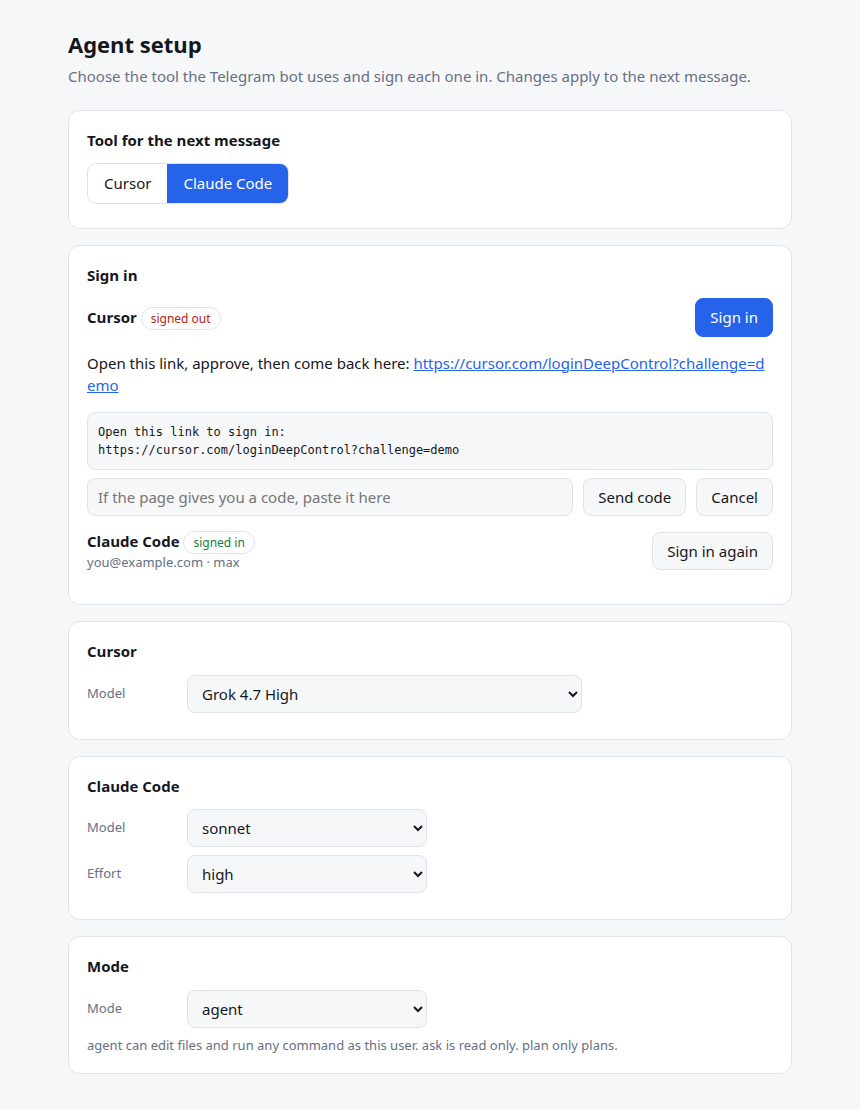
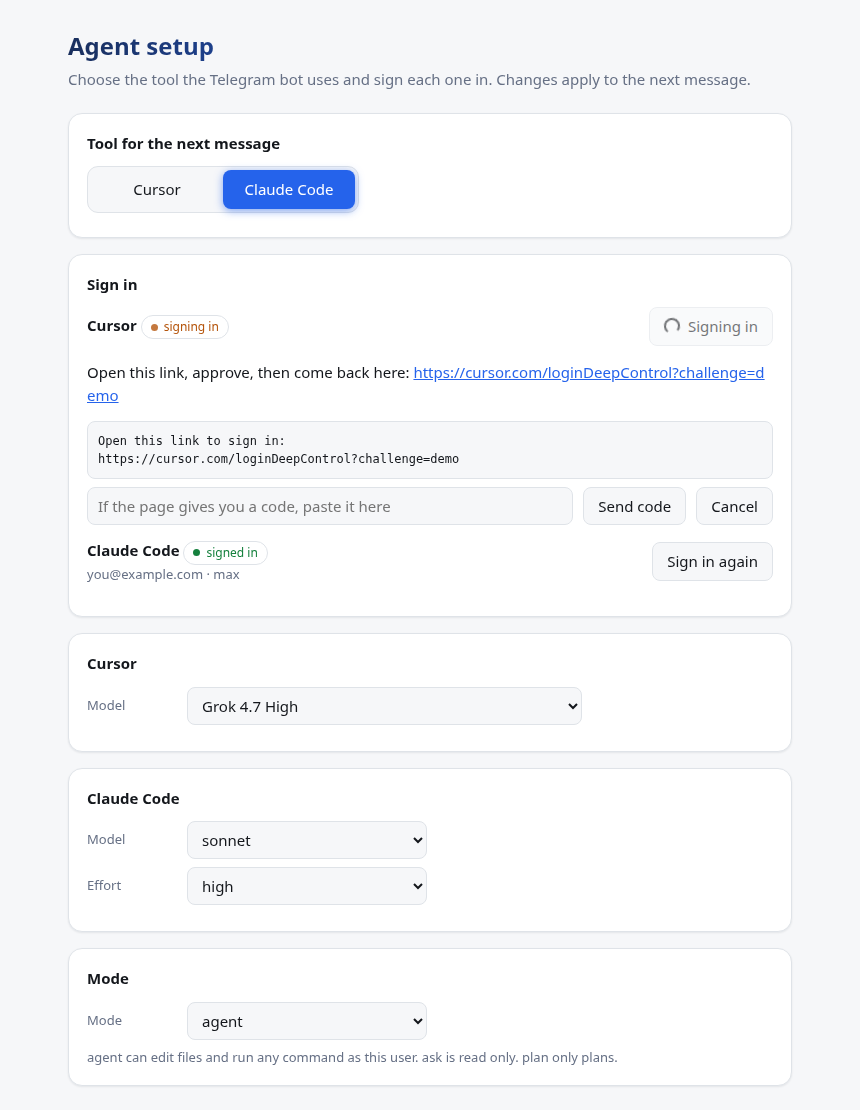
Animate the setup page and the README pictures.
The setup page gets staggered card entrances, a sliding tool toggle, a
spinner and amber pulse while a sign-in runs, a breathing dot when signed
in, a flash on a saved field, and a toast that slides up. Sign-in cards
now re-render only when their state changes, so the animations do not
restart on every poll. Reduced-motion turns all of it off.

The README gains a chat demo where one reply edits itself as the agent
works, message dots travelling through the architecture diagram, and a
model picker that taps a family and then a model. All three are plain
SVG, so GitHub plays them with no GIF.

diff --git a/app/webui.py b/app/webui.py
@@ -331,83 +331,114 @@ PAGE = """<!doctype html>
 <html lang="en"><head><meta charset="utf-8"><meta name="viewport" content="width=device-width,initial-scale=1">
 <title>Agent setup</title>
 <style>
-:root{color-scheme:light dark;--bg:#f6f7f9;--card:#fff;--ink:#14171c;--mute:#667085;--line:#dfe3e8;--accent:#2563eb;--ok:#15803d;--bad:#b42318}
-@media(prefers-color-scheme:dark){:root{--bg:#0f1115;--card:#171a21;--ink:#e8eaed;--mute:#98a2b3;--line:#272c36;--accent:#6d9bff;--ok:#4ade80;--bad:#f87171}}
+:root{color-scheme:light dark;--bg:#f6f7f9;--card:#fff;--ink:#14171c;--mute:#667085;--line:#dfe3e8;--accent:#2563eb;--ok:#15803d;--bad:#b42318;--wait:#b45309;--glow:rgba(37,99,235,.55);--okglow:rgba(21,128,61,.45);--shadow:rgba(16,24,40,.08)}
+@media(prefers-color-scheme:dark){:root{--bg:#0f1115;--card:#171a21;--ink:#e8eaed;--mute:#98a2b3;--line:#272c36;--accent:#6d9bff;--ok:#4ade80;--bad:#f87171;--wait:#fbbf24;--glow:rgba(109,155,255,.55);--okglow:rgba(74,222,128,.45);--shadow:rgba(0,0,0,.4)}}
+@keyframes rise{from{opacity:0;transform:translateY(14px)}to{opacity:1;transform:none}}
+@keyframes pop{from{opacity:0;transform:scale(.97)}to{opacity:1;transform:none}}
+@keyframes breathe{0%{box-shadow:0 0 0 0 var(--okglow)}70%,100%{box-shadow:0 0 0 7px transparent}}
+@keyframes spin{to{transform:rotate(360deg)}}
+@keyframes flash{from{box-shadow:0 0 0 0 var(--glow)}to{box-shadow:0 0 0 12px transparent}}
+@keyframes shimmer{to{background-position:200% center}}
+@keyframes blink{0%,80%,100%{opacity:.15}40%{opacity:1}}
+@keyframes waitpulse{50%{opacity:.45}}
 *{box-sizing:border-box}body{margin:0;background:var(--bg);color:var(--ink);font:15px/1.5 system-ui,sans-serif}
-main{max-width:760px;margin:0 auto;padding:28px 18px 60px}h1{font-size:22px;margin:0 0 4px}.sub{color:var(--mute);margin:0 0 22px}
-.card{background:var(--card);border:1px solid var(--line);border-radius:12px;padding:18px;margin-bottom:16px}
+main{max-width:760px;margin:0 auto;padding:28px 18px 60px}
+h1{font-size:24px;margin:0 0 4px;background:linear-gradient(90deg,var(--ink) 0%,var(--accent) 45%,var(--ink) 90%);background-size:200% auto;-webkit-background-clip:text;background-clip:text;color:transparent;animation:rise .5s both,shimmer 7s linear 1s infinite}
+.sub{color:var(--mute);margin:0 0 22px;animation:rise .5s .08s both}
+.card{background:var(--card);border:1px solid var(--line);border-radius:14px;padding:18px;margin-bottom:16px;box-shadow:0 1px 2px var(--shadow);animation:rise .55s cubic-bezier(.2,.7,.2,1) both;animation-delay:calc(120ms + var(--i) * 75ms);transition:box-shadow .25s,transform .25s}
+.card:hover{box-shadow:0 8px 24px var(--shadow)}
 h2{font-size:15px;margin:0 0 12px}.row{display:flex;gap:10px;align-items:center;flex-wrap:wrap;margin:8px 0}
-.seg{display:inline-flex;border:1px solid var(--line);border-radius:9px;overflow:hidden}
-.seg button{border:0;background:none;color:var(--ink);padding:8px 16px;cursor:pointer;font:inherit}
-.seg button.on{background:var(--accent);color:#fff}
-label{color:var(--mute);min-width:90px;font-size:13px}select,input{font:inherit;color:var(--ink);background:var(--bg);border:1px solid var(--line);border-radius:8px;padding:7px 10px}
-select{min-width:240px}input.code{flex:1;min-width:200px}
-button.act{font:inherit;border:1px solid var(--line);background:var(--bg);color:var(--ink);border-radius:8px;padding:7px 14px;cursor:pointer}
+.seg{position:relative;display:inline-flex;border:1px solid var(--line);border-radius:11px;padding:3px;background:var(--bg)}
+.seg::before{content:"";position:absolute;top:3px;bottom:3px;left:3px;width:calc(50% - 3px);border-radius:8px;background:var(--accent);box-shadow:0 2px 8px var(--glow);transition:transform .38s cubic-bezier(.2,.7,.2,1)}
+.seg[data-on=claude]::before{transform:translateX(100%)}
+.seg button{position:relative;z-index:1;width:132px;border:0;background:none;color:var(--ink);padding:8px 0;cursor:pointer;font:inherit;font-weight:500;transition:color .25s}
+.seg button.on{color:#fff}
+label{color:var(--mute);min-width:90px;font-size:13px}select,input{font:inherit;color:var(--ink);background:var(--bg);border:1px solid var(--line);border-radius:8px;padding:7px 10px;transition:border-color .2s,box-shadow .2s}
+select:focus,input:focus{outline:0;border-color:var(--accent);box-shadow:0 0 0 3px var(--glow)}
+select{min-width:240px}input.code{flex:1;min-width:200px}.flash{animation:flash .7s ease-out}
+button.act{font:inherit;border:1px solid var(--line);background:var(--bg);color:var(--ink);border-radius:8px;padding:7px 14px;cursor:pointer;transition:transform .12s,box-shadow .2s,opacity .2s}
+button.act:hover:not(:disabled){transform:translateY(-1px);box-shadow:0 4px 12px var(--shadow)}button.act:active:not(:disabled){transform:scale(.97)}button.act:disabled{opacity:.6;cursor:default}
 button.pri{background:var(--accent);border-color:var(--accent);color:#fff}
-.pill{font-size:12px;padding:2px 9px;border-radius:99px;border:1px solid var(--line)}.ok{color:var(--ok)}.bad{color:var(--bad)}
+button.busy::before{content:"";display:inline-block;width:12px;height:12px;border:2px solid currentColor;border-right-color:transparent;border-radius:50%;margin-right:8px;vertical-align:-2px;animation:spin .8s linear infinite}
+.pill{font-size:12px;padding:2px 9px;border-radius:99px;border:1px solid var(--line);display:inline-flex;align-items:center;gap:6px}
+.pill::before{content:"";width:7px;height:7px;border-radius:50%;background:currentColor}
+.ok{color:var(--ok)}.bad{color:var(--bad)}.pill.ok::before{animation:breathe 2.4s ease-out infinite}
+.pill.wait{color:var(--wait)}.pill.wait::before{animation:waitpulse 1s ease-in-out infinite}
 .tool{display:flex;justify-content:space-between;align-items:center;gap:12px;flex-wrap:wrap}.who{color:var(--mute);font-size:13px}
+.toolcard{margin-bottom:14px}.toolcard.enter{animation:rise .45s both}.step{animation:pop .4s both}
 pre{background:var(--bg);border:1px solid var(--line);border-radius:8px;padding:10px;white-space:pre-wrap;word-break:break-all;max-height:160px;overflow:auto;font-size:12px;margin:8px 0}
-.warn{color:var(--mute);font-size:13px;margin:6px 0 0}#toast{position:fixed;bottom:16px;left:50%;transform:translateX(-50%);background:var(--ink);color:var(--bg);padding:8px 16px;border-radius:9px;opacity:0;transition:.2s;pointer-events:none}
-#toast.show{opacity:1}a{color:var(--accent);word-break:break-all}
+.warn{color:var(--mute);font-size:13px;margin:6px 0 0}.d i{display:inline-block;width:4px;height:4px;margin-left:3px;border-radius:50%;background:currentColor;animation:blink 1.4s infinite}.d i:nth-child(2){animation-delay:.2s}.d i:nth-child(3){animation-delay:.4s}
+#toast{position:fixed;bottom:16px;left:50%;transform:translate(-50%,14px);background:var(--ink);color:var(--bg);padding:9px 18px;border-radius:10px;opacity:0;transition:.28s cubic-bezier(.2,.7,.2,1);pointer-events:none;box-shadow:0 8px 24px var(--shadow)}
+#toast.show{opacity:1;transform:translate(-50%,0)}a{color:var(--accent);word-break:break-all}
+@media(prefers-reduced-motion:reduce){*,*::before,*::after{animation:none!important;transition:none!important}}
 </style></head><body><main>
 <h1>Agent setup</h1><p class="sub">Choose the tool the Telegram bot uses and sign each one in. Changes apply to the next message.</p>
-<div class="card"><h2>Tool for the next message</h2>
+<div class="card" style="--i:0"><h2>Tool for the next message</h2>
 <div class="seg" id="cli"><button data-v="cursor">Cursor</button><button data-v="claude">Claude Code</button></div>
 <p class="warn" id="busy"></p></div>
-<div class="card"><h2>Sign in</h2><div id="tools"></div></div>
-<div class="card"><h2>Cursor</h2>
+<div class="card" style="--i:1"><h2>Sign in</h2><div id="tools"></div></div>
+<div class="card" style="--i:2"><h2>Cursor</h2>
 <div class="row"><label for="model">Model</label><select id="model"></select></div></div>
-<div class="card"><h2>Claude Code</h2>
+<div class="card" style="--i:3"><h2>Claude Code</h2>
 <div class="row"><label for="claude_model">Model</label><select id="claude_model"></select></div>
 <div class="row"><label for="effort">Effort</label><select id="effort"></select></div></div>
-<div class="card"><h2>Mode</h2>
+<div class="card" style="--i:4"><h2>Mode</h2>
 <div class="row"><label for="mode">Mode</label><select id="mode"></select></div>
 <p class="warn">agent can edit files and run any command as this user. ask is read only. plan only plans.</p></div>
 <div id="toast"></div></main>
 <script>
 const $=id=>document.getElementById(id);
 const H={"Content-Type":"application/json","X-Requested-With":"setup"};
-let state=null,busy=false,editing=false;
-function toast(t){const e=$("toast");e.textContent=t;e.classList.add("show");setTimeout(()=>e.classList.remove("show"),2200)}
+let state=null,editing=false;const sigs={};
+function toast(t){const e=$("toast");e.textContent=t;e.classList.add("show");clearTimeout(e._t);e._t=setTimeout(()=>e.classList.remove("show"),2200)}
+function flash(el){el.classList.remove("flash");void el.offsetWidth;el.classList.add("flash")}
 async function post(p,b){const r=await fetch(p,{method:"POST",headers:H,body:JSON.stringify(b||{})});const j=await r.json();if(!r.ok)throw new Error(j.error||r.status);return j}
 function fill(sel,items,val){const s=$(sel);if(editing&&document.activeElement===s)return;
  const want=items.map(i=>i.id+"|"+i.label).join(",");if(s.dataset.k!==want){s.innerHTML="";for(const i of items){const o=document.createElement("option");o.value=i.id;o.textContent=i.label;s.appendChild(o)}s.dataset.k=want}
  if(![...s.options].some(o=>o.value===val)){const o=document.createElement("option");o.value=val;o.textContent=val;s.appendChild(o)}
  s.value=val}
 function simple(a){return a.map(x=>({id:x,label:x}))}
+function toolCard(t,st,lg){
+ const d=document.createElement("div");d.className="toolcard";
+ const top=document.createElement("div");top.className="tool";
+ const name=document.createElement("div");name.innerHTML="<b></b> <span class='pill'></span><div class='who'></div>";
+ name.querySelector("b").textContent=t==="cursor"?"Cursor":"Claude Code";
+ const pill=name.querySelector(".pill");const running=!!(lg&&lg.running);
+ pill.textContent=running?"signing in":!st.installed?"not installed":st.signed_in?"signed in":"signed out";
+ pill.className="pill "+(running?"wait":st.signed_in?"ok":"bad");
+ name.querySelector(".who").textContent=[st.account,st.detail].filter(Boolean).join(" · ");
+ const btn=document.createElement("button");btn.className="act"+(st.signed_in||running?"":" pri")+(running?" busy":"");
+ btn.textContent=running?"Signing in":st.signed_in?"Sign in again":"Sign in";
+ btn.disabled=!st.installed||running;btn.onclick=async()=>{btn.disabled=true;btn.classList.add("busy");try{await post("/api/login",{tool:t});load()}catch(e){toast(e.message);load()}};
+ top.append(name,btn);d.appendChild(top);
+ if(lg&&(lg.running||lg.output)){
+  if(lg.url){const p=document.createElement("p");p.className="step";p.append("Open this link, approve, then ");const a=document.createElement("a");a.href=lg.url;a.target="_blank";a.rel="noopener noreferrer";a.textContent=lg.url;p.append(lg.running?"come back here: ":"(done): ",a);d.appendChild(p)}
+  const pre=document.createElement("pre");pre.textContent=lg.output||"Starting…";d.appendChild(pre);
+  if(lg.running){const r=document.createElement("div");r.className="row";const i=document.createElement("input");i.className="code";i.placeholder="If the page gives you a code, paste it here";
+   const send=document.createElement("button");send.className="act";send.textContent="Send code";send.onclick=async()=>{try{await post("/api/login/code",{tool:t,code:i.value});i.value="";toast("Code sent")}catch(e){toast(e.message)}};
+   const c=document.createElement("button");c.className="act";c.textContent="Cancel";c.onclick=()=>post("/api/login/cancel",{tool:t}).then(load);
+   r.append(i,send,c);d.appendChild(r)}
+  else{const m=document.createElement("p");m.className="warn step "+(lg.ok?"ok":"bad");m.textContent=lg.ok?"Signed in.":"Sign-in did not finish. Try again.";d.appendChild(m)}}
+ return d}
 function render(){const s=state;
- for(const b of $("cli").children)b.classList.toggle("on",b.dataset.v===s.cli);
- $("busy").textContent=s.busy?"A run is in progress. It finishes on the tool it started with.":"";
+ $("cli").dataset.on=s.cli;for(const b of $("cli").children)b.classList.toggle("on",b.dataset.v===s.cli);
+ const busy=$("busy");if(s.busy&&!busy.firstChild){busy.append("A run is in progress. It finishes on the tool it started with");const d=document.createElement("span");d.className="d";d.innerHTML="<i></i><i></i><i></i>";busy.appendChild(d)}else if(!s.busy)busy.textContent="";
  fill("claude_model",simple(s.claude_models),s.settings.claude_model);
  fill("effort",simple(s.efforts),s.settings.effort);
  fill("mode",simple(s.modes),s.settings.mode);
  if(!$("model").dataset.k)fill("model",[{id:"auto",label:"auto"}],s.settings.model);else if($("model").value!==s.settings.model&&document.activeElement!==$("model"))$("model").value=s.settings.model;
- const box=$("tools");if(box.contains(document.activeElement)&&document.activeElement.tagName==="INPUT")return;box.innerHTML="";
- for(const t of ["cursor","claude"]){const st=s.tools[t],lg=s.logins[t];
-  const d=document.createElement("div");d.style.marginBottom="14px";
-  const top=document.createElement("div");top.className="tool";
-  const name=document.createElement("div");name.innerHTML="<b></b> <span class='pill'></span><div class='who'></div>";
-  name.querySelector("b").textContent=t==="cursor"?"Cursor":"Claude Code";
-  const pill=name.querySelector(".pill");pill.textContent=!st.installed?"not installed":st.signed_in?"signed in":"signed out";pill.className="pill "+(st.signed_in?"ok":"bad");
-  name.querySelector(".who").textContent=[st.account,st.detail].filter(Boolean).join(" · ");
-  const btn=document.createElement("button");btn.className="act"+(st.signed_in?"":" pri");btn.textContent=st.signed_in?"Sign in again":"Sign in";
-  btn.disabled=!st.installed||(lg&&lg.running);btn.onclick=async()=>{try{await post("/api/login",{tool:t});poll()}catch(e){toast(e.message)}};
-  top.append(name,btn);d.appendChild(top);
-  if(lg&&(lg.running||lg.output)){
-   if(lg.url){const p=document.createElement("p");p.append("Open this link, approve, then ");const a=document.createElement("a");a.href=lg.url;a.target="_blank";a.rel="noopener noreferrer";a.textContent=lg.url;p.append(lg.running?"come back here: ":"(done): ",a);d.appendChild(p)}
-   const pre=document.createElement("pre");pre.textContent=lg.output||"Starting…";d.appendChild(pre);
-   if(lg.running){const r=document.createElement("div");r.className="row";const i=document.createElement("input");i.className="code";i.placeholder="If the page gives you a code, paste it here";
-    const send=document.createElement("button");send.className="act";send.textContent="Send code";send.onclick=async()=>{try{await post("/api/login/code",{tool:t,code:i.value});i.value="";toast("Code sent")}catch(e){toast(e.message)}};
-    const c=document.createElement("button");c.className="act";c.textContent="Cancel";c.onclick=()=>post("/api/login/cancel",{tool:t});
-    r.append(i,send,c);d.appendChild(r)}
-   else{const m=document.createElement("p");m.className="warn "+(lg.ok?"ok":"bad");m.textContent=lg.ok?"Signed in.":"Sign-in did not finish. Try again.";d.appendChild(m)}}
-  box.appendChild(d)}}
+ const box=$("tools");
+ for(const t of ["cursor","claude"]){const st=s.tools[t],lg=s.logins[t];const sig=JSON.stringify([st,lg]);
+  const old=box.querySelector("[data-tool="+t+"]");
+  if(old&&sigs[t]===sig)continue;
+  if(old&&old.contains(document.activeElement)&&document.activeElement.tagName==="INPUT")continue;
+  const card=toolCard(t,st,lg);card.dataset.tool=t;if(!old)card.classList.add("enter");
+  old?old.replaceWith(card):box.appendChild(card);sigs[t]=sig}}
 async function load(){const r=await fetch("/api/state");if(r.status===401){document.body.textContent="Open the address from scripts/ui.sh (it carries the key).";return}state=await r.json();render()}
-async function poll(){await load()}
 async function models(){const r=await fetch("/api/models");const j=await r.json();if(j.models.length){fill("model",j.models,state?state.settings.model:"auto")}}
 for(const b of $("cli").children)b.onclick=async()=>{try{await post("/api/config",{cli:b.dataset.v});toast("Next message uses "+b.textContent);load()}catch(e){toast(e.message)}};
 for(const f of ["model","claude_model","effort","mode"]){$(f).onfocus=()=>editing=true;$(f).onblur=()=>editing=false;
- $(f).onchange=async()=>{try{await post("/api/config",{[f]:$(f).value});toast("Saved");load()}catch(e){toast(e.message)}}}
+ $(f).onchange=async()=>{try{await post("/api/config",{[f]:$(f).value});flash($(f));toast("Saved");load()}catch(e){toast(e.message)}}}
 load().then(models);setInterval(load,2500);
 </script></body></html>
 """

diff --git a/README.md b/README.md
@@ -2,7 +2,7 @@
 
 A private Telegram bot that runs a coding agent on your own computer. You message the bot. [Cursor](https://cursor.com/docs/cli/overview) or [Claude Code](https://docs.claude.com/en/docs/claude-code/overview) edits files, runs commands, and answers in that same chat. The bot only makes outbound calls to Telegram, so the computer does not open a port.
 
-![A Telegram message runs Cursor or Claude Code on your computer, and the reply stays in the same chat](docs/architecture.svg)
+![A Telegram chat where you send a task and one reply edits itself as the agent reads files, runs a command, and finishes](docs/chat-demo.svg)
 
 ## What you get
 
@@ -13,6 +13,8 @@ A private Telegram bot that runs a coding agent on your own computer. You messag
 - **Files in both directions.** Send a photo or voice note and the agent can read it. Files the agent makes come back in the chat. `/files` lists the folder.
 - **A queue that survives restarts.** A message sent while the agent is busy waits its turn and continues after a restart.
 - **Locked to you.** Only allowlisted phone numbers get through, in private chat only.
+
+![A Telegram message runs Cursor or Claude Code on your computer, and the reply stays in the same chat](docs/architecture.svg)
 
 ![The /model buttons: Cursor model families, the models in one family, and the Claude Code aliases](docs/model-picker.svg)
 
